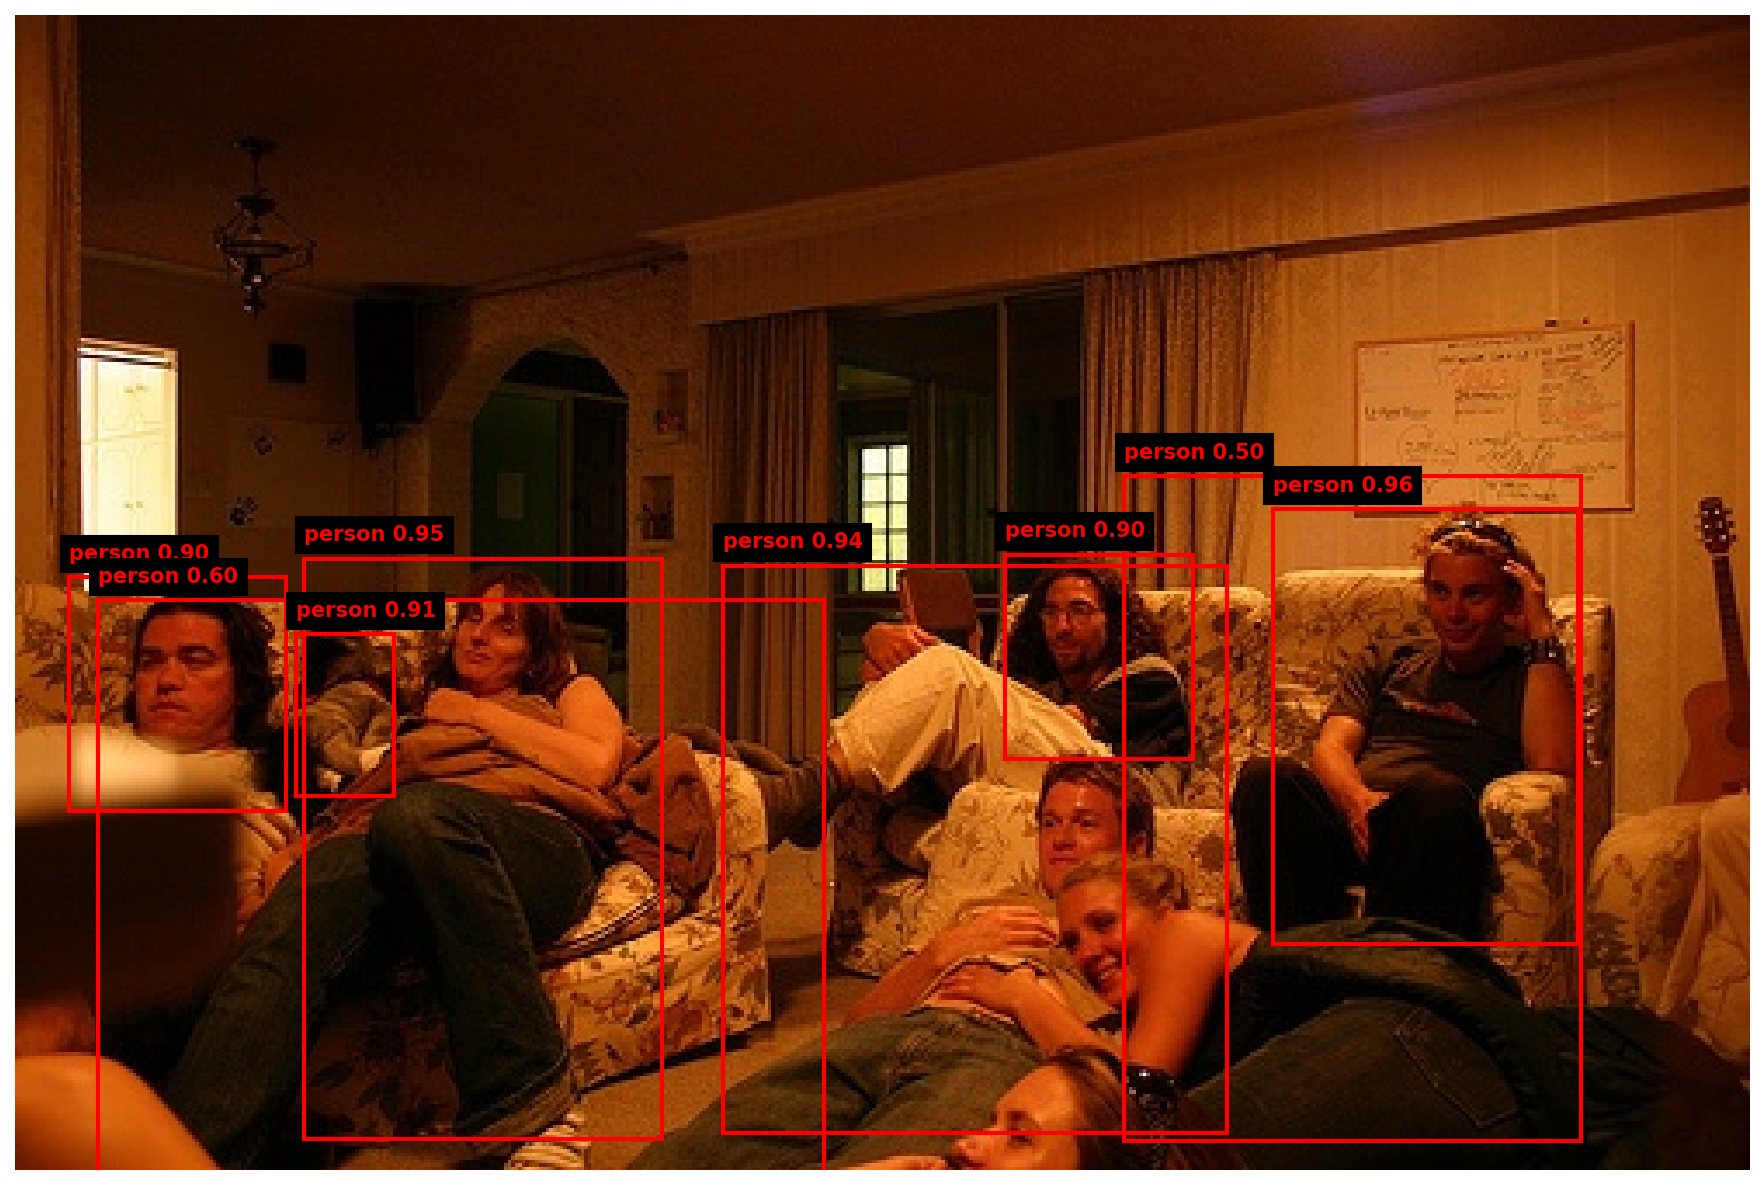
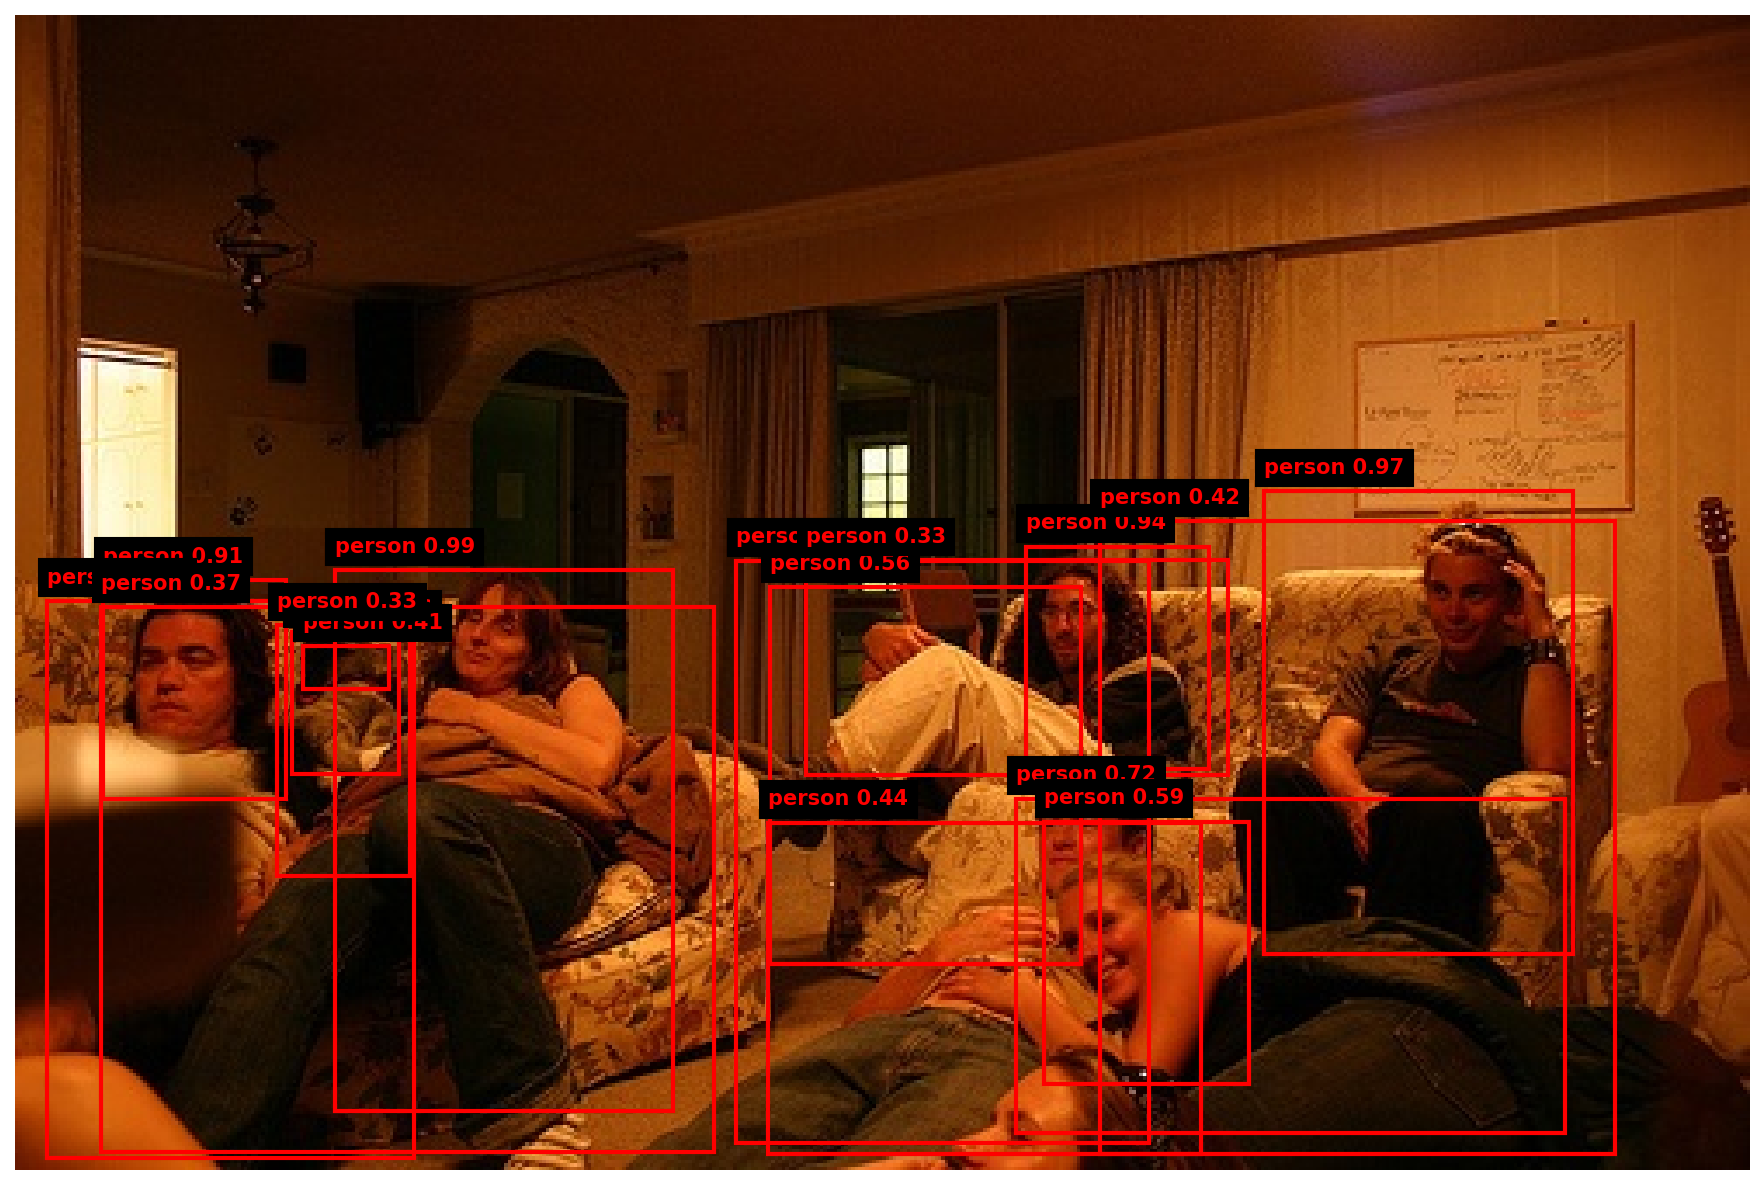
head detection

Changed region(s): [[0.0, 0.3435, 0.9354, 0.9992]]

diff --git a/Inference.py b/Inference.py
@@ -10,11 +10,11 @@ from Models import get_model
 import os
 
 # SECTION 2: Settings — change these to control what the script does
-CHECKPOINT = 'checkpoints/exp5_scheduler_epoch_10.pth'
+CHECKPOINT = 'checkpoints/voc2012_exp2_scheduler_epoch_13.pth'
 ROOT = './data/VOCdevkit/VOC2007'
 NUM_CLASSES = 5
-CONFIDENCE_THRESHOLD = 0.5  # only show predictions the model is at least 50% confident about
-APPLY_SOFT_NMS = True      # Toggle NMS True/Flase
+CONFIDENCE_THRESHOLD = 0.3  # only show predictions the model is at least 50% confident about
+APPLY_SOFT_NMS = True      # Toggle NMS True/False
 IMAGE_PATH = None            # None = grab from VOC dataset, or set to 'your_image.jpg'
 IMAGE_INDEX = 10              # which VOC image to use if IMAGE_PATH is None
 
